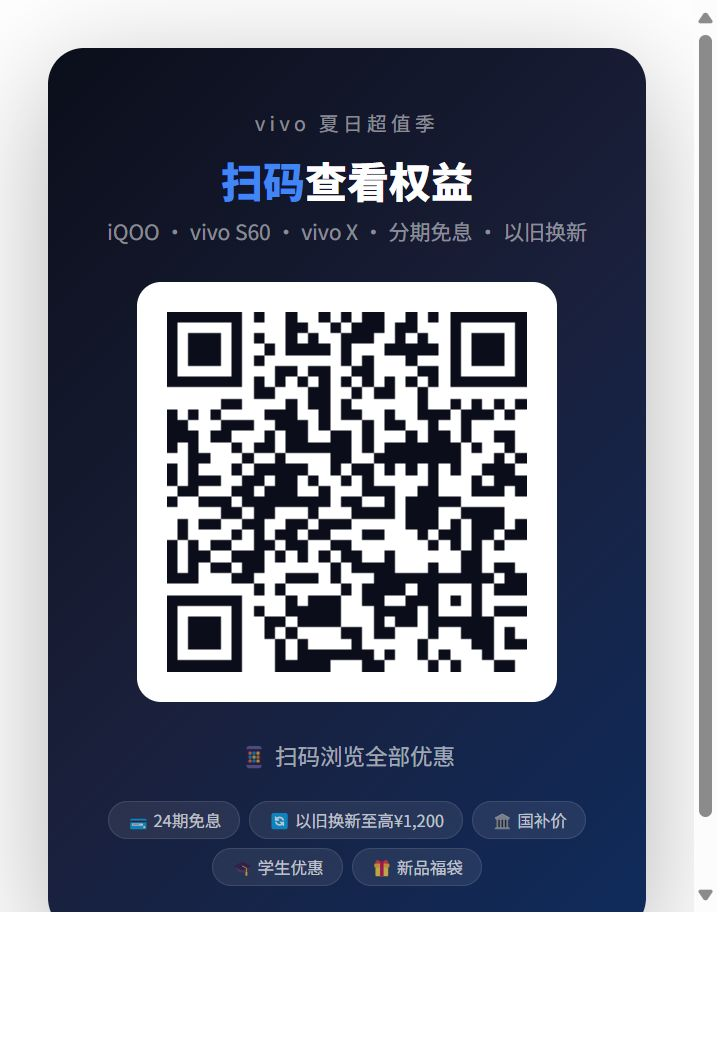
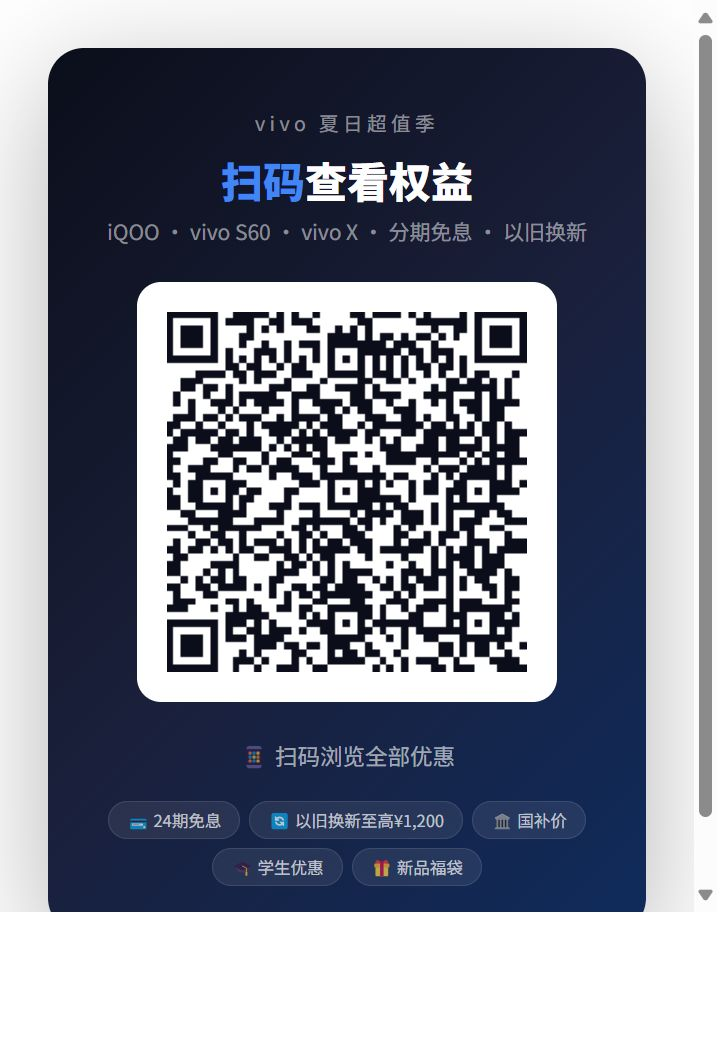
初始化 vivo 夏日超值季权益页面

Changed region(s): [[0.2139, 0.2743, 0.7333, 0.64]]

diff --git a/qr-poster.html b/qr-poster.html
@@ -97,7 +97,7 @@ body {
 (function() {
     // Read URL from query param ?url=..., default to a placeholder
     var params = new URLSearchParams(window.location.search);
-    var targetUrl = params.get('url') || window.location.origin + window.location.pathname.replace(/\/[^/]*$/, '') + '/vivo-summer-benefits.html';
+    var targetUrl = params.get('url') || 'https://2014949597-lab.github.io/vivo-summer-benefits/vivo-summer-benefits.html';
     new QRCode(document.getElementById('qrcode'), {
         text: targetUrl,
         width: 240,
